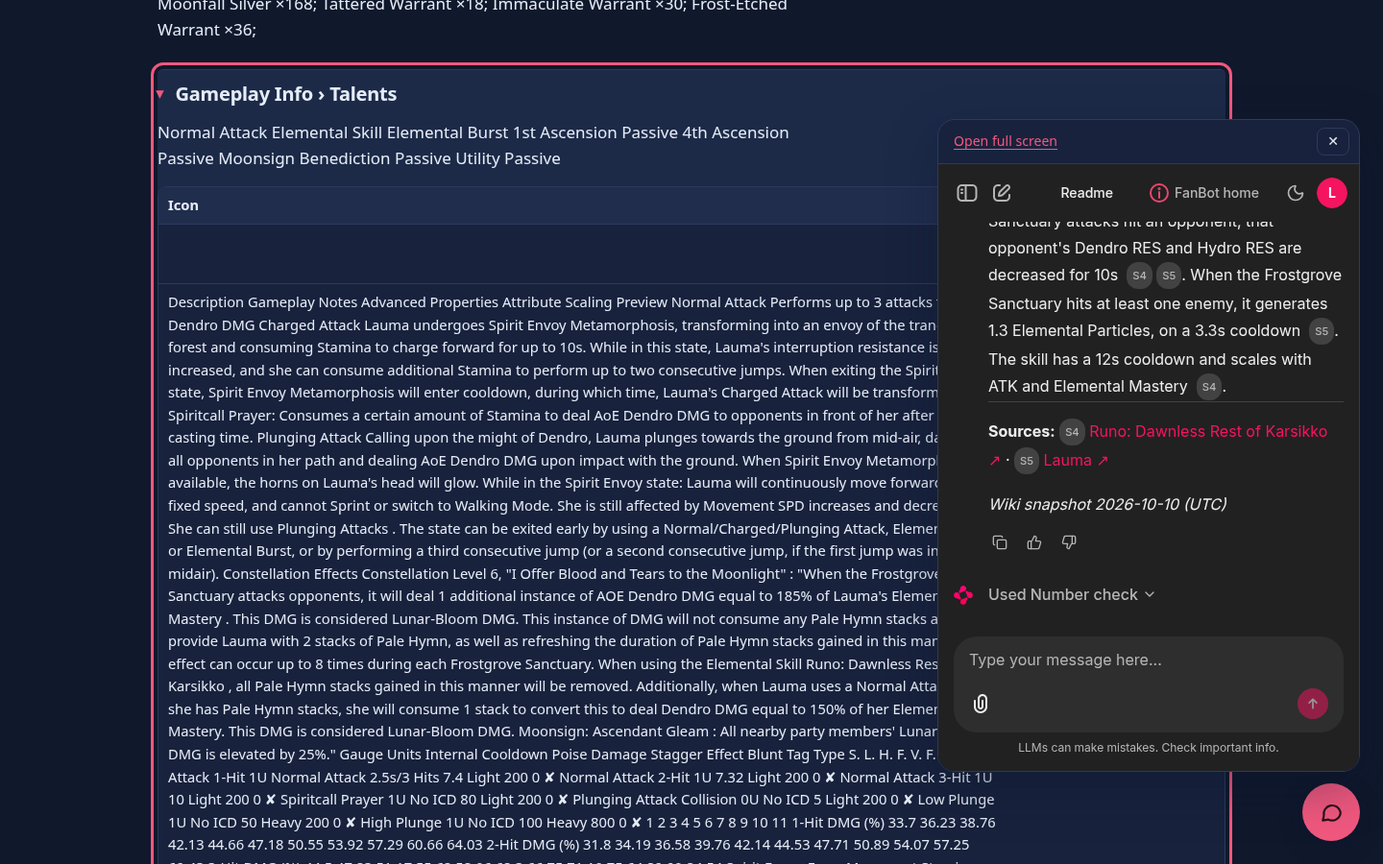
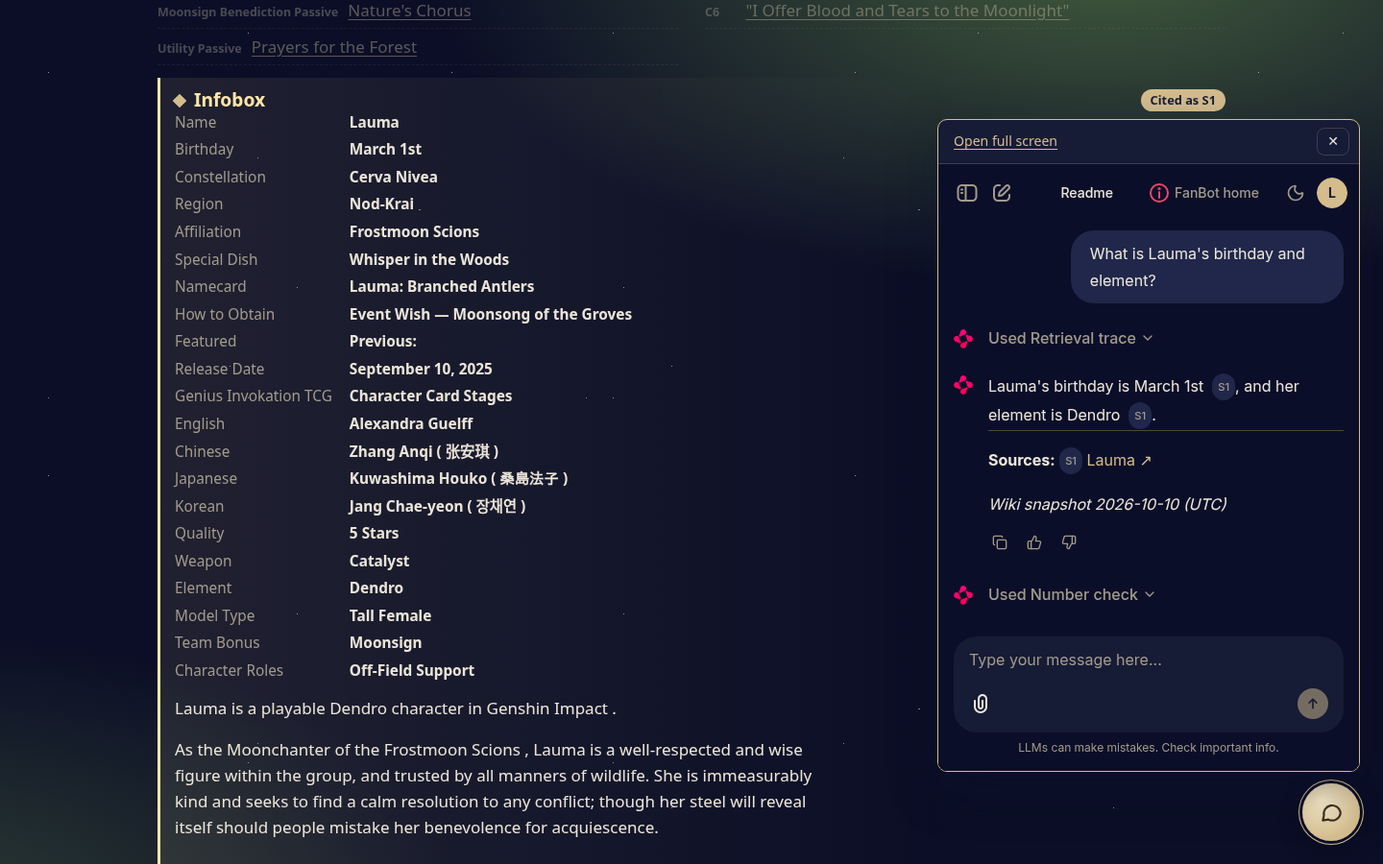
feat: Genshin-style look for the site and the chat, with a citation highlight
Colours, type and markers follow the game's own menus: a night-sky navy with
gold hairlines (dark), the battle pass's cream paper (light), Cinzel
Decorative for English titles (SIL OFL, licence included), hollow diamond
markers and dividers, cream pill buttons, rarity backdrops behind portraits.
Character pages tint the sky with the character's element. The chat gets the
same palette through Chainlit's theme.json, plus star and diamond avatars.

A citation now lands like a picked constellation: the cited section gets a
gold edge, a glow sweeping in from the left and a 'Cited as Sn' tag, the
other sections dim, and the swapped page fades in. Clicking elsewhere or Esc
clears it. Reduced motion keeps the highlight without the movement.

diff --git a/web/static/site.css b/web/static/site.css
@@ -1,24 +1,49 @@
-/* System fonts only: the site makes no third-party requests (no trackers, works offline) */
+/* Look borrowed from Genshin Impact's own menus (measured from in-game screenshots, see the constellation and battle-pass
+   screens): a night-sky navy with gold hairlines in dark mode, the battle pass's cream paper in light mode, Cinzel for the
+   English titles, hollow diamonds as markers. The one loud moment is a chat citation landing on its section (bottom).
+   No third-party requests: the one webfont is served from /static (SIL OFL, licence next to it). */
+@font-face { font-family: "Cinzel Decorative"; src: url("/static/fonts/CinzelDecorative-Bold.woff2") format("woff2");
+             font-weight: 700; font-display: swap; }
 :root {
-  --bg: #eef3f8; --panel: #ffffff; --panel-2: #e3ebf4; --ink: #17203a; --muted: #55627d; --line: #d0dae8;
-  --rose: #c42f57; --on-rose: #ffffff; --frost: #dce9f5;
+  --bg: #ece5d8; --panel: #f7f3ea; --panel-2: #e6ddc9; --ink: #3d4458; --muted: #776c58; --line: #d4c6a6;
+  --accent: #7a5a22; --on-accent: #fff8e8; --frost: #fff3c0; --hi: #9a6f1e; --cream: #ece5d8; --slate: #4a5366;
+  --sky: #ece5d8; --neb-a: 10%; --neb-b: 7%; --stars: 0;
   --Anemo: #1f8f78; --Geo: #a8740a; --Electro: #7b4fc4; --Dendro: #4f8a1f; --Hydro: #1f6fc0; --Pyro: #c2441f; --Cryo: #2b8fb3;
-  --display: "Avenir Next", "Segoe UI Variable Display", "Segoe UI", system-ui, sans-serif;
+  --display: "Cinzel Decorative", "Cinzel", Georgia, serif;
   --body: system-ui, -apple-system, "Segoe UI", Roboto, sans-serif;
+  --ease: cubic-bezier(.2, .9, .25, 1);
 }
 @media (prefers-color-scheme: dark) {
   :root {
-    --bg: #10182c; --panel: #18223d; --panel-2: #212d4d; --ink: #e5ecf6; --muted: #9aaac3; --line: #2c3a5d;
-    --rose: #f0587e; --on-rose: #2a0f1a; --frost: #1c2a48;
+    --bg: #0b0e26; --panel: #161b36; --panel-2: #20264a; --ink: #ece5d8; --muted: #a39b8b; --line: rgba(211, 188, 142, .22);
+    --accent: #d3bc8e; --on-accent: #1b1e33; --frost: rgba(255, 230, 168, .09); --hi: #ffe6a8;
+    --sky: #0b0e26; --neb-a: 38%; --neb-b: 22%; --stars: .55;
     --Anemo: #5fd3b6; --Geo: #f0c24e; --Electro: #b892f5; --Dendro: #9ad65f; --Hydro: #6cb6ff; --Pyro: #ff8a66; --Cryo: #8fdcf5;
   }
 }
 * { box-sizing: border-box; }
-body { margin: 0; background: var(--bg); color: var(--ink); font: 1.0625rem/1.6 var(--body); }
-a { color: var(--rose); text-underline-offset: 3px; }
-:focus-visible { outline: 3px solid var(--rose); outline-offset: 3px; border-radius: 6px; }
+body { margin: 0; color: var(--ink); font: 1.0625rem/1.6 var(--body); --neb: #4a4fb0;
+       background: radial-gradient(ellipse 70% 55% at 80% -5%, color-mix(in srgb, var(--neb) var(--neb-a), transparent), transparent 70%),
+                   radial-gradient(ellipse 55% 45% at -5% 105%, color-mix(in srgb, var(--neb) var(--neb-b), transparent), transparent 70%),
+                   var(--sky);
+       background-attachment: fixed; }
+body::before { content: ""; position: fixed; inset: 0; z-index: -1; pointer-events: none; opacity: var(--stars);
+               background: radial-gradient(1px 1px at 12% 18%, #fff 50%, transparent 51%), radial-gradient(1px 1px at 68% 9%, #fff 50%, transparent 51%),
+                           radial-gradient(1.5px 1.5px at 84% 42%, #ffe6a8 50%, transparent 51%), radial-gradient(1px 1px at 33% 61%, #fff 50%, transparent 51%),
+                           radial-gradient(1px 1px at 52% 83%, #fff 50%, transparent 51%), radial-gradient(1.5px 1.5px at 9% 74%, #cfe7ff 50%, transparent 51%),
+                           radial-gradient(1px 1px at 91% 88%, #fff 50%, transparent 51%), radial-gradient(1px 1px at 44% 27%, #ffe6a8 50%, transparent 51%);
+               background-size: 420px 420px, 380px 380px, 520px 520px, 300px 300px, 460px 460px, 560px 560px, 340px 340px, 610px 610px; }
+/* character pages: the night sky takes the colour of the character's element */
+body:has(.page[data-el="Anemo"]) { --neb: var(--Anemo); } body:has(.page[data-el="Geo"]) { --neb: var(--Geo); }
+body:has(.page[data-el="Electro"]) { --neb: var(--Electro); } body:has(.page[data-el="Dendro"]) { --neb: var(--Dendro); }
+body:has(.page[data-el="Hydro"]) { --neb: var(--Hydro); } body:has(.page[data-el="Pyro"]) { --neb: var(--Pyro); }
+body:has(.page[data-el="Cryo"]) { --neb: var(--Cryo); }
+a { color: var(--accent); text-underline-offset: 3px; }
+:focus-visible { outline: 3px solid var(--accent); outline-offset: 3px; border-radius: 6px; }
 .wrap { max-width: 1160px; margin: 0 auto; padding: 0 24px; }
-h1, h2, h3 { font-family: var(--display); line-height: 1.12; margin: 0; letter-spacing: -0.01em; }
+h1, h2, h3 { line-height: 1.15; margin: 0; }
+h1, .brand, section.block > h2, .region h2 { font-family: var(--display); font-weight: 700; letter-spacing: 0.01em; }
+h3 { font-family: var(--body); }
 p { margin: 0 0 1rem; max-width: 70ch; }
 .sr { position: absolute; width: 1px; height: 1px; overflow: hidden; clip: rect(0 0 0 0); white-space: nowrap; }
 .skip { position: absolute; left: 16px; top: -60px; z-index: 40; background: var(--ink); color: var(--bg); padding: 10px 16px;
@@ -28,7 +53,7 @@ main:focus { outline: none; }
 button { font: inherit; }
 
 .bar { padding: 22px 0; }
-.brand { font-family: var(--display); font-weight: 800; font-size: 1.2rem; color: var(--ink); text-decoration: none; }
+.brand { font-size: 1.15rem; color: var(--ink); text-decoration: none; }
 
 /* home */
 .hero { padding: 0 0 40px; }
@@ -52,46 +77,54 @@ body:has(.hero) .brand { color: #fff; text-shadow: 0 1px 8px rgba(0,0,0,.5); }
                              linear-gradient(0deg, rgba(9,11,28,.7), rgba(9,11,28,0) 55%); }
 .bannertext { position: relative; z-index: 1; max-width: 720px; }
 .banner h1 { color: #fff; } .banner .counts, .banner .crumbs { color: rgba(255,255,255,.88); }
-.banner a { color: #fff; } .banner .search input { background: rgba(255,255,255,.96); color: #17203a; border-color: transparent; }
-.banner .search input::placeholder { color: #55627d; }
+.banner a { color: #fff; } .banner .search input { background: rgba(28, 33, 58, .72); color: #ece5d8; border-color: rgba(211, 188, 142, .55);
+                        backdrop-filter: blur(6px); }
+.banner .search input::placeholder { color: rgba(236, 229, 216, .7); }
 .bannercredit { position: absolute; z-index: 1; right: max(24px, calc(50vw - 556px)); bottom: 20px; font-size: 0.78rem; color: rgba(255,255,255,.85) !important;
                 text-decoration: none; background: rgba(9,11,28,.55); padding: 4px 10px; border-radius: 999px; }
 .bannercredit:hover { text-decoration: underline; }
 .pagebanner { min-height: 360px; margin-bottom: 24px; } .pagebanner .bannerimg { object-position: center 20%; }
-.pagebanner .ask.btn { background: #fff; color: #17203a; }
+
 .pagebanner .pageactions a { color: #fff; }
 @media (max-width: 700px) { .banner { min-height: 380px; } .bannercredit { position: relative; right: auto; bottom: auto; align-self: flex-start; margin-top: 16px; } }
-.hero h1 { font-size: clamp(2.3rem, 6vw, 4.6rem); font-weight: 800; max-width: 16ch; }
+.hero h1 { font-size: clamp(2.2rem, 5.6vw, 4.3rem); max-width: 18ch; text-shadow: 0 2px 18px rgba(9, 11, 28, .6); }
 .counts { color: var(--muted); margin-top: 14px; }
 .search input { width: 100%; max-width: 620px; font: inherit; padding: 13px 18px; border-radius: 999px; border: 1.5px solid var(--line);
                 background: var(--panel); color: var(--ink); margin-top: 8px; }
-.search input:focus { outline: none; border-color: var(--rose); }
+.search input:focus { outline: none; border-color: var(--hi); box-shadow: 0 0 0 3px rgba(255, 230, 168, .18); }
 .jump { display: flex; flex-wrap: wrap; gap: 8px 18px; margin: 18px 0 30px; font-weight: 700; font-size: 0.95rem; }
-.jump a { color: var(--ink); text-decoration: none; } .jump a:hover { color: var(--rose); }
-.regions { display: grid; grid-template-columns: 1fr 1fr; border: 1px solid var(--line); border-radius: 20px; overflow: hidden; background: var(--panel); }
+.jump a { color: var(--ink); text-decoration: none; } .jump a:hover { color: var(--accent); }
+.regions { display: grid; grid-template-columns: 1fr 1fr; border: 1px solid var(--line); border-radius: 10px; overflow: hidden; background: color-mix(in srgb, var(--panel) 88%, transparent); }
 .region { padding: 26px 28px; display: flex; flex-direction: column; gap: 10px; }
 .region + .region { border-left: 1px solid var(--line); }
-.region h2 { font-size: clamp(1.6rem, 3vw, 2.1rem); font-weight: 800; } .region h2 a { color: inherit; text-decoration: none; }
+.region h2 { font-size: clamp(1.5rem, 3vw, 2rem); } .region h2 a { color: inherit; text-decoration: none; }
 .region p { margin: 0; color: var(--muted); }
-section.block { padding: 44px 0; border-top: 1px solid var(--line); }
-section.block > h2 { font-size: clamp(1.5rem, 3vw, 2rem); font-weight: 800; margin-bottom: 18px; }
+section.block { padding: 48px 0 44px; position: relative; }
+section.block::before { content: ""; position: absolute; top: 0; left: 0; right: 0; height: 1px;
+                        background: linear-gradient(90deg, transparent, var(--accent) 20%, var(--accent) 80%, transparent); opacity: .55; }
+section.block::after { content: ""; position: absolute; top: -4px; left: calc(50% - 4px); width: 7px; height: 7px; transform: rotate(45deg);
+                       background: var(--bg); border: 1px solid var(--accent); }
+section.block > h2 { font-size: clamp(1.4rem, 2.8vw, 1.85rem); margin-bottom: 20px; color: var(--hi); }
 .count { font-size: 0.55em; color: var(--muted); font-weight: 600; vertical-align: middle; }
 .grid { display: grid; grid-template-columns: repeat(auto-fill, minmax(210px, 1fr)); gap: 12px; list-style: none; margin: 0; padding: 0; }
-.card { background: var(--panel); border: 1px solid var(--line); border-top: 4px solid var(--el, var(--line)); border-radius: 14px;
+.card { background: color-mix(in srgb, var(--panel) 88%, transparent); border: 1px solid var(--line); border-top: 3px solid var(--el, var(--line)); border-radius: 8px;
         padding: 14px 16px 12px; display: flex; flex-direction: column; gap: 3px; }
 .card h3 { font-size: 1.08rem; font-weight: 700; } .card h3 a { color: var(--ink); text-decoration: none; } .card h3 a:hover { text-decoration: underline; }
-.stars { color: var(--el, var(--Geo)); letter-spacing: 2px; font-size: 0.85rem; }
+.stars { color: #ffcc32; letter-spacing: 2px; font-size: 0.85rem; text-shadow: 0 0 6px rgba(255, 204, 50, .35); }
 .meta { color: var(--muted); font-size: 0.9rem; }
-.ask { margin-top: 6px; align-self: flex-start; background: none; border: 0; padding: 0; color: var(--rose); font-weight: 700;
+.ask { margin-top: 6px; align-self: flex-start; background: none; border: 0; padding: 0; color: var(--accent); font-weight: 700;
        cursor: pointer; text-decoration: underline; text-underline-offset: 3px; font-size: 0.92rem; }
-.thumb { width: 72px; height: 72px; object-fit: contain; margin-bottom: 6px; border-radius: 10px;
+.thumb { width: 72px; height: 72px; object-fit: contain; margin-bottom: 6px; border-radius: 8px 8px 18px 8px;
          background: color-mix(in srgb, var(--el, var(--line)) 14%, transparent); }
+/* the game's item backdrops: 5-star amber, 4-star violet */
+.card[data-q="5"] .thumb { background: linear-gradient(160deg, #6e4a3a, #c0844a); }
+.card[data-q="4"] .thumb { background: linear-gradient(160deg, #4f4a7e, #9a6fc0); }
 .regionimg { width: 100%; max-height: 180px; object-fit: cover; border-radius: 12px; }
 .pageimg { float: right; width: min(260px, 40%); margin: 0 0 16px 20px; border-radius: 14px; background: var(--panel);
            border: 1px solid var(--line); }
 @media (max-width: 560px) { .pageimg { float: none; display: block; width: 100%; max-width: 320px; margin: 0 0 16px; } }
 /* grouped abilities, lists, sortable tables */
-.whos { border: 1px solid var(--line); border-radius: 14px; background: var(--panel); overflow: hidden; }
+.whos { border: 1px solid var(--line); border-radius: 8px; background: color-mix(in srgb, var(--panel) 88%, transparent); overflow: hidden; }
 .who { border-top: 1px solid var(--line); border-left: 4px solid var(--el, var(--line)); padding: 10px 16px; }
 .who:first-child { border-top: 0; }
 .who > summary { gap: 12px; } .whoname { font-weight: 700; font-size: 1.05rem; } .who .meta { margin-left: auto; }
@@ -101,16 +134,16 @@ section.block > h2 { font-size: clamp(1.5rem, 3vw, 2rem); font-weight: 800; marg
 .list { list-style: none; margin: 0; padding: 0; }
 .list li { display: flex; gap: 10px; align-items: baseline; padding: 5px 0; border-bottom: 1px dashed var(--line); }
 .tag { flex: 0 0 auto; min-width: 2.6em; font-size: 0.78rem; color: var(--muted); font-weight: 600; }
-table.sortable th button { all: unset; cursor: pointer; font-weight: 700; } table.sortable th button:focus-visible { outline: 2px solid var(--rose); outline-offset: 2px; }
+table.sortable th button { all: unset; cursor: pointer; font-weight: 700; } table.sortable th button:focus-visible { outline: 2px solid var(--accent); outline-offset: 2px; }
 table.sortable th[aria-sort="ascending"] button::after { content: " ▲"; } table.sortable th[aria-sort="descending"] button::after { content: " ▼"; }
 table.sortable .ask { margin: 0; }
 .pager { display: flex; flex-wrap: wrap; align-items: center; gap: 6px; margin-top: 12px; }
 .pager button { font: inherit; font-weight: 700; min-width: 40px; min-height: 40px; padding: 0 12px; border-radius: 10px;
                 border: 1px solid var(--line); background: var(--panel); color: var(--ink); cursor: pointer; }
-.pager button:hover:not(:disabled) { border-color: var(--rose); color: var(--rose); }
-.pager button[aria-current="page"] { background: var(--rose); border-color: var(--rose); color: var(--on-rose); }
+.pager button:hover:not(:disabled) { border-color: var(--accent); color: var(--accent); }
+.pager button[aria-current="page"] { background: var(--accent); border-color: var(--accent); color: var(--on-accent); }
 .pager button:disabled { opacity: .45; cursor: default; }
-.pager button:focus-visible { outline: 2px solid var(--rose); outline-offset: 2px; }
+.pager button:focus-visible { outline: 2px solid var(--accent); outline-offset: 2px; }
 .pagerinfo { margin-left: auto; color: var(--muted); font-size: 0.9rem; }
 .rating { color: var(--el); letter-spacing: 2px; white-space: nowrap; } .rating .off { color: var(--line); }
 @media (max-width: 700px) { .cols { grid-template-columns: 1fr; } .who .meta { display: none; } }
@@ -119,32 +152,36 @@ table.sortable .ask { margin: 0; }
 /* page view */
 .page { padding: 10px 0 30px; }
 .crumbs { color: var(--muted); font-size: 0.95rem; }
-.page h1 { font-size: clamp(2rem, 5vw, 3.4rem); font-weight: 800; margin-bottom: 12px; }
+.page h1 { font-size: clamp(1.9rem, 4.6vw, 3.1rem); margin-bottom: 12px; }
 .pageactions { display: flex; flex-wrap: wrap; gap: 14px 20px; align-items: center; margin-bottom: 20px; }
-.btn { background: var(--rose); color: var(--on-rose); border-radius: 999px; padding: 10px 20px; text-decoration: none; margin: 0; }
+.btn { background: var(--cream); color: var(--slate); border-radius: 999px; padding: 10px 22px; text-decoration: none; margin: 0; font-weight: 700;
+       box-shadow: 0 0 0 1px rgba(74, 83, 102, .25), 0 4px 14px rgba(9, 11, 28, .25); }
 .lead p { font-size: 1.1rem; }
 details { border-top: 1px solid var(--line); padding: 12px 0; }
+.who > summary::before { display: none; }
 summary { cursor: pointer; list-style: none; display: flex; align-items: center; gap: 10px; }
-summary::before { content: "▸"; color: var(--rose); transition: transform .15s; } details[open] > summary::before { transform: rotate(90deg); }
-summary h2 { font-size: 1.25rem; font-weight: 700; display: inline; }
+summary::before { content: ""; flex: 0 0 auto; width: 8px; height: 8px; transform: rotate(45deg); border: 1.5px solid var(--accent);
+                  transition: background-color .2s; }
+details[open] > summary::before { background: var(--accent); }
+summary h2 { font-size: 1.2rem; font-weight: 600; display: inline; color: var(--hi); }
 details > :not(summary) { margin-top: 12px; }
 .infobox { display: grid; grid-template-columns: minmax(120px, max-content) 1fr; gap: 4px 18px; margin: 0; font-size: 0.96rem; }
-.infobox dt { color: var(--muted); } .infobox dd { margin: 0; font-weight: 600; }
-.tablewrap { overflow-x: auto; border: 1px solid var(--line); border-radius: 10px; background: var(--panel); }
+.infobox dt { color: var(--muted); } .infobox dd { margin: 0; font-weight: 600; } .infobox { font-variant-numeric: tabular-nums; }
+.tablewrap { overflow-x: auto; border: 1px solid var(--line); border-radius: 6px; background: color-mix(in srgb, var(--panel) 90%, transparent); }
 table { border-collapse: collapse; width: 100%; font-size: 0.92rem; }
 th, td { padding: 7px 10px; text-align: left; border-bottom: 1px solid var(--line); vertical-align: top; }
-th { background: var(--panel-2); position: sticky; top: 0; }
+th { background: var(--panel-2); position: sticky; top: 0; color: var(--hi); font-weight: 600; }
 
 footer { padding: 34px 0 110px; border-top: 1px solid var(--line); color: var(--muted); font-size: 0.9rem; }
 footer p { max-width: 95ch; margin-bottom: 0.5rem; }
 
 /* chat launcher + pop-up panel (the full chat at /chat, in an iframe on the same origin) */
 .launcher { position: fixed; right: 24px; bottom: 24px; z-index: 20; width: 60px; height: 60px; border-radius: 50%; border: 0;
-            background: var(--rose); color: var(--on-rose); cursor: pointer; display: grid; place-items: center;
-            box-shadow: 0 8px 24px rgba(10, 20, 45, .3); }
+            background: radial-gradient(circle at 35% 30%, #fff1cf, #d3bc8e 70%); color: #3a3220; cursor: pointer; display: grid; place-items: center;
+            box-shadow: 0 0 0 3px var(--bg), 0 0 0 4px var(--accent), 0 8px 24px rgba(9, 11, 28, .45); }
 .launcher svg { width: 26px; height: 26px; }
 .panel { position: fixed; right: 24px; bottom: 96px; z-index: 21; width: min(440px, calc(100vw - 32px)); height: min(680px, calc(100vh - 124px));
-         background: var(--panel); border: 1px solid var(--line); border-radius: 18px; overflow: hidden; display: flex; flex-direction: column;
+         background: var(--panel); border: 1px solid var(--accent); border-radius: 10px; overflow: hidden; display: flex; flex-direction: column;
          box-shadow: 0 18px 50px rgba(10, 20, 45, .35); }
 .panel[hidden] { display: none; }
 .panelbar { display: flex; justify-content: space-between; align-items: center; padding: 8px 10px 8px 16px; border-bottom: 1px solid var(--line); font-size: 0.88rem; }
@@ -167,10 +204,20 @@ footer p { max-width: 95ch; margin-bottom: 0.5rem; }
   @keyframes rise { from { opacity: 0; transform: translateY(8px); } to { opacity: 1; transform: none; } }
 }
 
-/* The section a chat citation points to (#99): marked until the next citation, so it stays findable while reading */
-.page details[id] { scroll-margin-top: 4.5rem; }
-.page details.cited { outline: 3px solid var(--rose); outline-offset: 4px; border-radius: 6px; background: var(--frost); }
+/* The one loud moment (#99): a chat citation lands on its section, the way a constellation is picked in the game.
+   One state, body.cite-open, decides everything: the cited section gets a gold edge and a glow that fades out to the
+   right, every other section dims. Click elsewhere on the page or press Esc to clear it. */
+.page details[id] { scroll-margin-top: 5rem; transition: opacity .35s var(--ease), filter .35s var(--ease); }
+.page details.cited { position: relative; padding-left: 18px; border-top-color: transparent;
+                      background: linear-gradient(90deg, var(--frost), transparent 75%) no-repeat;
+                      box-shadow: inset 3px 0 0 var(--hi); }
+.page details.cited > summary h2 { color: var(--hi); }
+.citetag { margin-left: auto; font-size: 0.8rem; font-weight: 700; color: var(--on-accent); background: var(--accent);
+           border-radius: 999px; padding: 1px 10px; white-space: nowrap; }
+body.cite-open .page > details:not(.cited), body.cite-open .page > .lead { opacity: .42; filter: saturate(.6); }
 @media (prefers-reduced-motion: no-preference) {
-  .page details.cited { animation: cited 1.2s ease-out 1; }
-  @keyframes cited { from { outline-color: transparent; } }
+  main.swapped { animation: scrin .5s var(--ease); }
+  @keyframes scrin { from { opacity: 0; transform: scale(1.03); filter: blur(8px); } }
+  .page details.cited { animation: sweep .9s var(--ease); background-size: 100% 100%; }
+  @keyframes sweep { from { background-size: 0% 100%; box-shadow: inset 0 0 0 var(--hi); } }
 }

diff --git a/web/static/site.js b/web/static/site.js
@@ -141,17 +141,35 @@
     return u.origin === location.origin && (u.pathname === "/" || u.pathname.startsWith("/wiki/")) ? u : null;
   };
   // Highlight the cited section: its own <details>, or (a chunk under a parent heading) every subsection under it.
-  function reveal(hash) {
+  // body.cite-open is the only state: it dims the other sections (site.css); clicking elsewhere or Esc clears it.
+  function clearCite() {
+    document.body.classList.remove("cite-open");
     main.querySelectorAll(".cited").forEach(el => el.classList.remove("cited"));
+    main.querySelectorAll(".citetag").forEach(el => el.remove());
+  }
+  function reveal(hash, label = "") {
+    clearCite();
     const id = decodeURIComponent((hash || "").slice(1));
-    if (!id) { window.scrollTo(0, 0); return; }
-    const exact = document.getElementById(id);
-    const hits = exact ? [exact] : [...main.querySelectorAll(`details[id^="${CSS.escape(id)}-"]`)];
+    const exact = id && document.getElementById(id);
+    const hits = exact ? [exact] : id ? [...main.querySelectorAll(`details[id^="${CSS.escape(id)}-"]`)] : [];
     if (!hits.length) { window.scrollTo(0, 0); return; }
-    hits.forEach(el => { if (el.tagName === "DETAILS") el.open = true; el.classList.add("cited"); });
+    hits.forEach(el => {
+      if (el.tagName !== "DETAILS") return;
+      el.open = true; el.classList.add("cited");
+      if (label) {
+        const tag = document.createElement("span");
+        tag.className = "citetag"; tag.textContent = `Cited as ${label}`;
+        el.querySelector("summary")?.append(tag);
+      }
+    });
+    document.body.classList.add("cite-open");
     hits[0].scrollIntoView({ block: "start", behavior: matchMedia("(prefers-reduced-motion: reduce)").matches ? "auto" : "smooth" });
   }
-  async function go(u, push = true) {
+  main.addEventListener("click", ev => { if (document.body.classList.contains("cite-open") && !ev.target.closest(".cited")) clearCite(); });
+  window.addEventListener("keydown", ev => {
+    if (ev.key === "Escape" && document.body.classList.contains("cite-open")) { clearCite(); ev.stopImmediatePropagation(); }
+  }, true);
+  async function go(u, push = true, label = "") {
     try {
       const res = await fetch(u.pathname);
       if (!res.ok) throw new Error(res.status);
@@ -161,7 +179,8 @@
     } catch { location.href = u.href; return; }   // fall back to a normal page load
     if (push) history.pushState(null, "", u.pathname + u.hash);
     initMain();
-    reveal(u.hash);
+    main.classList.remove("swapped"); void main.offsetWidth; main.classList.add("swapped");   // replay the entrance
+    reveal(u.hash, label);
     main.focus({ preventScroll: true });
   }
   window.addEventListener("popstate", () => { if (frame) go(new URL(location.href), false); else location.reload(); });
@@ -194,9 +213,12 @@
       const u = link && internal(new URL(link.getAttribute("href"), frame.contentWindow.location.href).href);
       if (!u) return;
       ev.preventDefault(); ev.stopPropagation();
+      const before = link.previousElementSibling;   // "S2" badge right before a Sources-line link
+      const label = badge ? badge.textContent.trim() : before?.matches(".element-link") ? before.textContent.trim() : "";
       // On phones the panel covers the page: fold it away to show the source (the launcher brings the chat back as it was)
       if (matchMedia("(max-width: 560px)").matches) open(false);
-      go(u);
+      if (u.pathname === location.pathname) { history.pushState(null, "", u.hash || u.pathname); reveal(u.hash, label); return; }
+      go(u, true, label);
     }, true);
     // Chainlit opens its source view by itself when an answer arrives; in the pop-up it is a dialog over the answer.
     // Close it with its own ✕ button (a synthetic Escape is ignored): the main page shows the sources instead.

diff --git a/web/wiki.py b/web/wiki.py
@@ -175,7 +175,9 @@ def card(p: Page, version_titles: dict[str, str]) -> str:
     meta_html = " · ".join(e(m) for m in meta if m)
     title = p.title.removeprefix("Version/")
     style = f' style="--el: var(--{e(el)})"' if el else ""
-    return (f'<li class="card" data-search="{e((p.title + " " + " ".join(meta)).lower())}"{style}>'
+    q = i.get("Quality", "")
+    rarity = f' data-q="{q[0]}"' if q[:1] in ("4", "5") else ""   # the picture's backdrop follows rarity, as in the game
+    return (f'<li class="card" data-search="{e((p.title + " " + " ".join(meta)).lower())}"{style}{rarity}>'
             f'{img(p, "thumb", "thumb")}{stars(i)}<h3><a href="/wiki/{e(p.slug)}">{e(title)}</a></h3>'
             f'<span class="meta">{meta_html}</span>'
             f'<button type="button" class="ask" data-q="Tell me about {e(title)}.">Ask about {e(title)}</button></li>')
@@ -382,7 +384,9 @@ def page_body(p: Page) -> str:
         top = f'<div class="banner pagebanner">{banner}<div class="bannertext">{head}</div></div>'
     else:
         top = img(p, "hero", "pageimg") + head
-    return f"<article class=\"page\">{top}{''.join(parts)}</article>"
+    el = p.info.get("Element", "") if p.type in ("character", "character_upcoming") else ""
+    data_el = f' data-el="{e(el)}"' if el else ""   # tints the page's night sky with the character's element
+    return f"<article class=\"page\"{data_el}>{top}{''.join(parts)}</article>"
 
 
 TEMPLATE = Path(__file__).parent / "templates" / "base.html"
